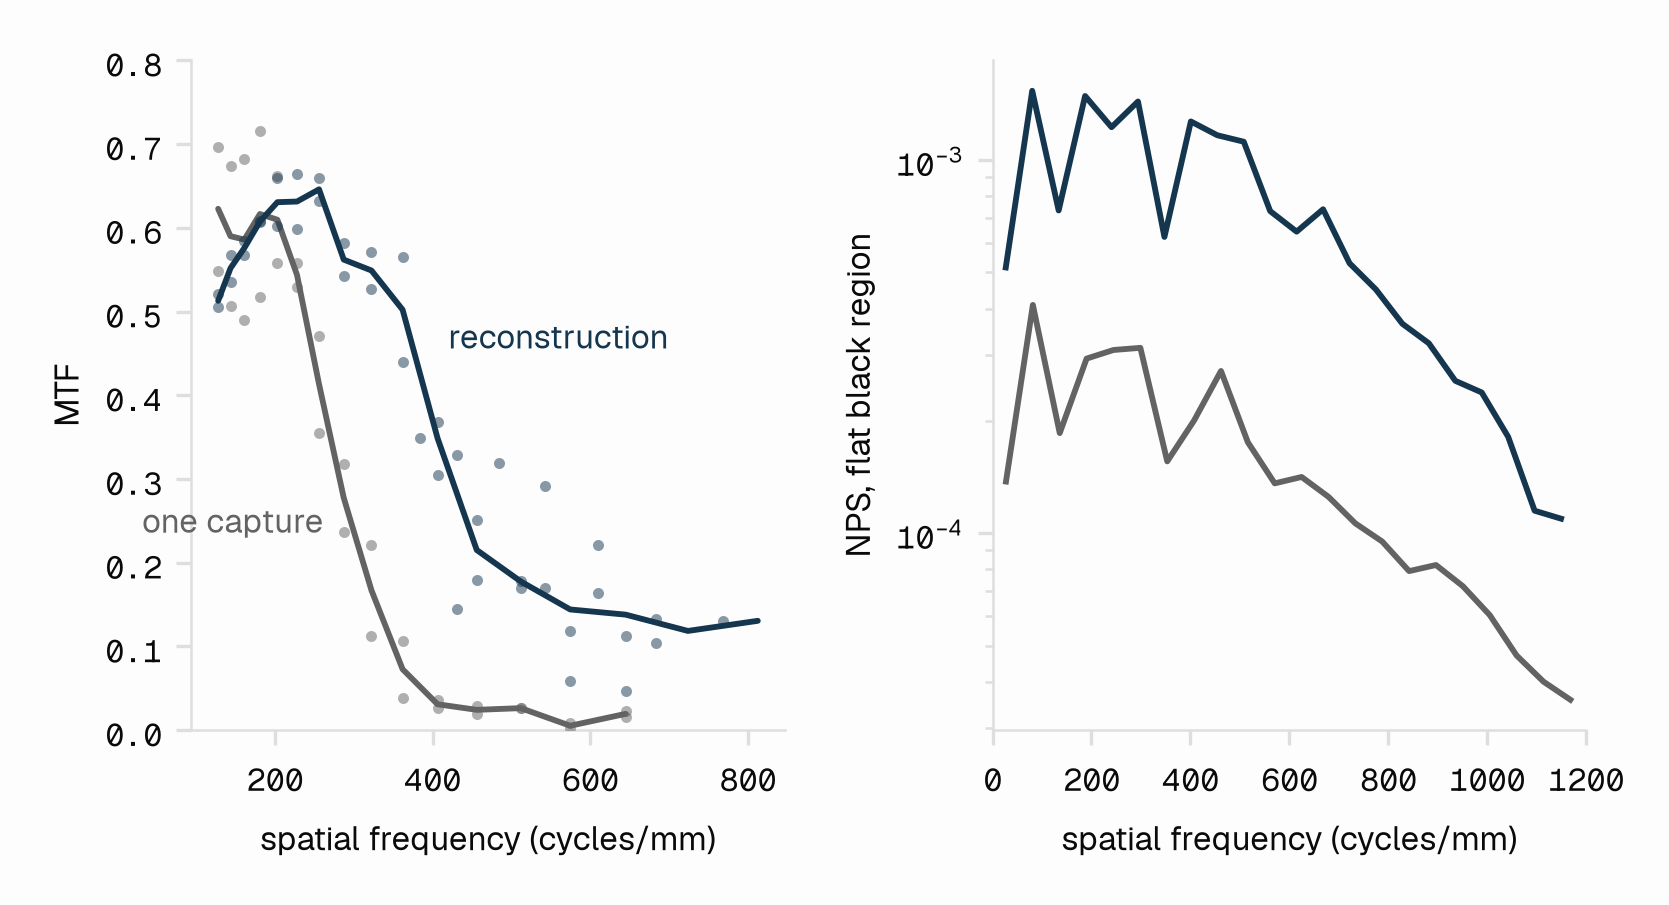
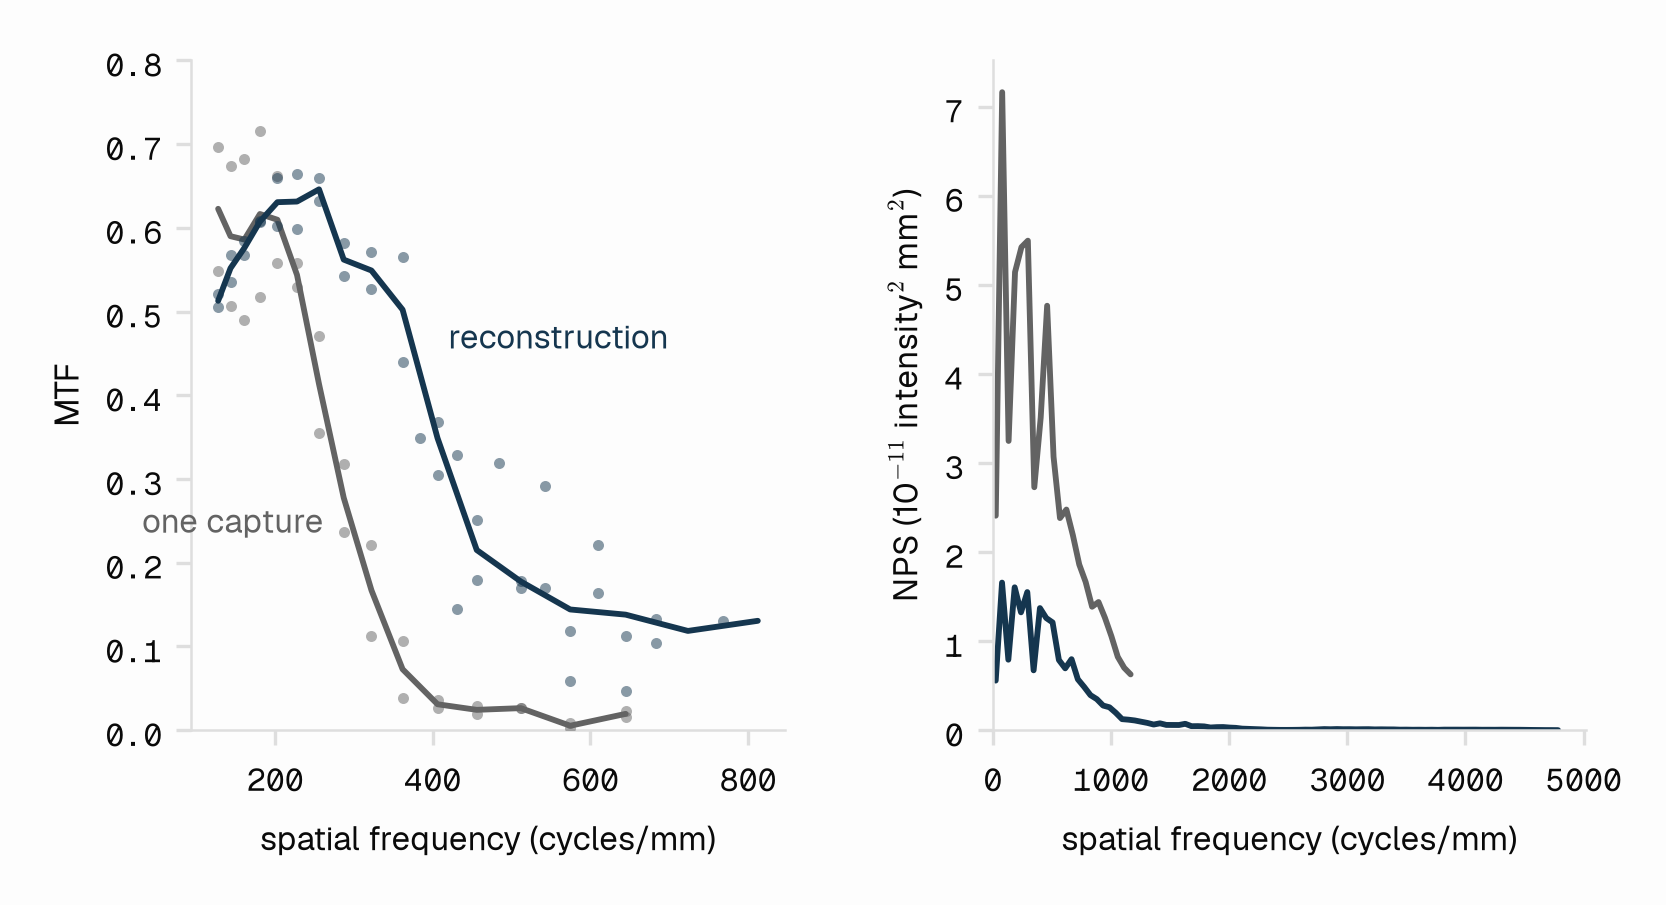
Plot NPS on a linear scale out to each image's Nyquist
image-eval now reports NPS as a density in intensity^2 mm^2, so the capture
and the 4x finer reconstruction share units; plot both linearly, each to its
own sampling Nyquist.

diff --git a/figures/mtf.py b/figures/mtf.py
@@ -2,7 +2,8 @@
 
 compute runs the image-eval CLI on the centre-LED capture (the base image, which
 mtf_template.json is drawn on) and on the hero reconstruction, and keeps its raw JSON
-reports. render plots straight from those reports.
+reports. render plots straight from those reports. The NPS is from the flat black
+region, each image out to its own sampling Nyquist.
 """
 
 import json
@@ -20,7 +21,7 @@ RUN = "bar-single-patch"
 TEMPLATE = ROOT / "figures" / "mtf_template.json"
 # image-eval lives in a sibling checkout; run it from there so local changes apply.
 IMAGE_EVAL = ["uv", "run", "--project", str(ROOT.parent / "image-eval"), "image-eval"]
-NPS_MAX_CYCLES_PER_MM = 1200  # the capture's sampling Nyquist
+NPS_SCALE = 1e-11  # axis unit; image-eval reports NPS in intensity^2 mm^2
 
 
 def compute() -> None:
@@ -103,15 +104,15 @@ def render() -> None:
         nps = np.array(
             [np.nan if r["black_nps"] is None else r["black_nps"] for r in rows]
         )
-        keep = f <= NPS_MAX_CYCLES_PER_MM
-        nps_ax.semilogy(f[keep], nps[keep], color=color, lw=1.4)
+        nps_ax.plot(f, nps / NPS_SCALE, color=color, lw=1.4, solid_capstyle="round")
 
     mtf_ax.set_xlabel("spatial frequency (cycles/mm)")
     mtf_ax.set_ylabel("MTF")
     mtf_ax.set_ylim(0, 0.8)
     nps_ax.set_xlabel("spatial frequency (cycles/mm)")
-    nps_ax.set_ylabel("NPS, flat black region")
-    nps_ax.set_xlim(0, NPS_MAX_CYCLES_PER_MM)
+    nps_ax.set_ylabel("NPS (10$^{-11}$ intensity$^2$ mm$^2$)")
+    nps_ax.set_xlim(0, None)
+    nps_ax.set_ylim(0, None)
     for ax in (mtf_ax, nps_ax):
         ax.tick_params(labelfontfamily="Geist Mono")
     fig.savefig(figure_path(NAME))
